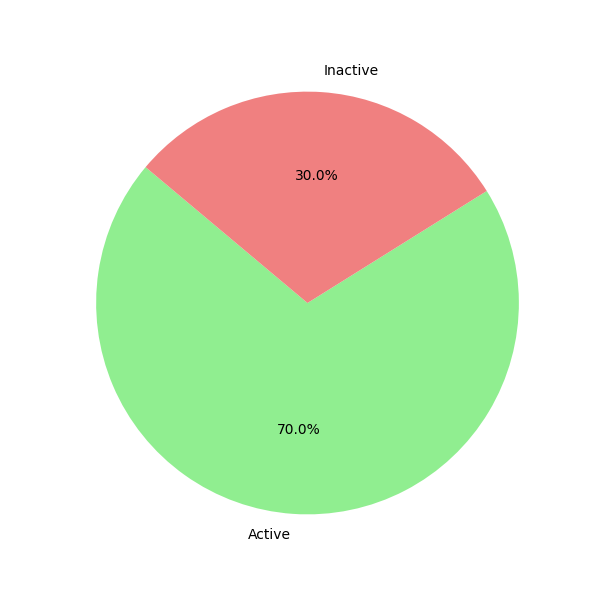
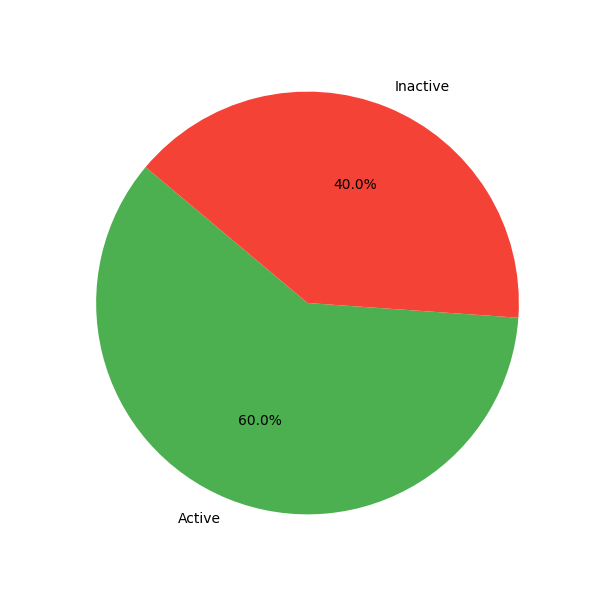
body changes

diff --git a/face_recognization/app1/templates/app1/setting_turn.html b/face_recognization/app1/templates/app1/setting_turn.html
@@ -143,7 +143,7 @@
         .user {
             text-align: left;
             margin-top: 30px;
-            margin-left: 70px;
+            margin-left: 7px;
 
         }
 
@@ -160,9 +160,9 @@
 
         #table-container {
             margin-top: 10px;
-            margin-left: 70px;
-            margin-right: 250px;
-            width: 90%;
+            margin-left: 7px;
+            margin-right: 20px;
+            width: 99%;
         }
 
         #customers {
@@ -415,26 +415,27 @@
             icon.classList.add('fa-toggle-off');
         }
 
-        // Send AJAX request to update safety confirmation
-        fetch('/update_safety_confirmation/', {
-            method: 'POST',
-            headers: {
-                'Content-Type': 'application/json',
-                'X-CSRFToken': '{{ csrf_token }}'
-            },
-            body: JSON.stringify({ pk: pk, safety_confirmation: isOn }),
-            credentials: 'same-origin', // Ensure cookies (including CSRF token) are sent
-        })
-        .then(response => {
-            if (!response.ok) {
-                throw new Error('Network response was not ok');
-            }
-        })
-        .catch(error => {
-            console.error('There was a problem with the fetch operation:', error);
-        });
-    }
+        function toggleSafetyConfirmation(icon) {
+    var pk = icon.getAttribute('data-pk');
+    var isOn = !icon.classList.contains('fa-toggle-on');
 
+    var xhr = new XMLHttpRequest();
+    xhr.open('POST', '/update_safety_confirmation/', true);
+    xhr.setRequestHeader('Content-Type', 'application/json');
+    xhr.setRequestHeader('X-CSRFToken', '{{ csrf_token }}');
+    xhr.onreadystatechange = function () {
+        if (xhr.readyState === XMLHttpRequest.DONE) {
+            if (xhr.status === 200) {
+                console.log('Safety confirmation updated successfully');
+            } else {
+               
+                console.error('Error updating safety confirmation:', xhr.statusText);
+            }
+        }
+    };
+    xhr.send(JSON.stringify({ pk: pk, safety_confirmation: isOn }));
+}
+        }
   
         const pathName = window.location.pathname;
         const activeLink = document.querySelector(`.nav a[href="${pathName}"]`);

diff --git a/face_recognization/app1/templates/app1/site.html b/face_recognization/app1/templates/app1/site.html
@@ -173,9 +173,9 @@
     
         #table-container {
             margin-top: 5px;
-            margin-left: 120px;
-            margin-right: 280px;
-            width: 90%;
+            margin-left: 5px;
+            margin-right: 50px;
+            width: 110%;
         }
 
         #customers {
@@ -201,8 +201,8 @@
         }
 
         #customers th {
-            padding-top: 12px;
-            padding-bottom: 12px;
+            padding-top: 7px;
+            padding-bottom: 7px;
             text-align: center;
             background-color: #071390;
             color: white;
@@ -245,7 +245,7 @@
         .user {
             text-align: left;
             margin-top: 10px;
-            margin-left: 120px;
+            margin-left: 5px;
         }
 
     </style>

diff --git a/face_recognization/app1/templates/app1/notification1.html b/face_recognization/app1/templates/app1/notification1.html
@@ -177,7 +177,7 @@
         .user {
             text-align: left;
             margin-top: 50px;
-            margin-left: 65px;
+            margin-left: 5px;
         }
 
         .add {
@@ -193,15 +193,15 @@
 
         #table-container {
             margin-top: 10px;
-            margin-left: 65px;
-            margin-right: 350px;
-            width: 90%;
+            margin-left: 7px;
+            margin-right: 5px;
+            width: 100%;
         }
 
         #customers {
             font-family: Arial, Helvetica, sans-serif;
             border-collapse: collapse;
-            width: 100%;
+            width: 99%;
         }
 
         #customers td,

diff --git a/face_recognization/app1/templates/app1/company.html b/face_recognization/app1/templates/app1/company.html
@@ -143,7 +143,7 @@
         .user {
             text-align: left;
             margin-top: 50px;
-            margin-left: 65px;
+            margin-left: 5px;
         }
 
         .add {
@@ -159,9 +159,9 @@
 
         #table-container {
             margin-top: 10px;
-            margin-left: 65px;
-            margin-right: 350px;
-            width: 90%;
+            margin-left: 7px;
+            margin-right: 20px;
+            width: 99%;
         }
 
         #customers {

diff --git a/face_recognization/app1/templates/app1/time_shedule.html b/face_recognization/app1/templates/app1/time_shedule.html
@@ -142,7 +142,7 @@
         .user {
             text-align: left;
             margin-top: 30px;
-            margin-left: 95px;
+            margin-left: 7px;
         }
 
         .add {
@@ -158,9 +158,9 @@
 
         #table-container {
             margin-top: 10px;
-            margin-left: 95px;
-            margin-right: 200px;
-            width: 85%;
+            margin-left: 7px;
+            margin-right: 20px;
+            width: 99%;
         }
 
         #customers {

diff --git a/face_recognization/app1/templates/app1/exit_status.html b/face_recognization/app1/templates/app1/exit_status.html
@@ -176,17 +176,17 @@
         }
 
         .main-content {
-            margin-left: 40px;
+            margin-left: 1px;
             padding: 20px;
-            width: 70%;
-            margin-right: 80px;
+            width: 95%;
+            margin-right: 20px;
 
         }
 
         table {
-            width: 130%;
+            width: 102%;
             border-collapse: collapse;
-            margin-top: 15px;
+            margin-top: 25px;
         }
 
         th,

diff --git a/face_recognization/app1/templates/app1/asset_site.html b/face_recognization/app1/templates/app1/asset_site.html
@@ -180,14 +180,14 @@
         }
 
         .main-content {
-            margin-left: 100px;
+            margin-left: 7px;
             padding: 5px;
-            width: 130%;
-            margin-right: 30px;
+            width: 99%;
+            margin-right: 20px;
         }
 
         table {
-            width: 95%;
+            width: 101%;
             border-collapse: collapse;
             margin-top: 10px;
             

diff --git a/face_recognization/app1/templates/app1/app2_login.html b/face_recognization/app1/templates/app1/app2_login.html
@@ -10,7 +10,7 @@
 <style>
     body {
         font-family: 'Times New Roman', Times, serif;
-        background-image: linear-gradient(to bottom right, #A8A1E4, #8BD6EE);
+        background-image: linear-gradient(to bottom right, #c6c3e6, #8BD6EE);
         display: flex;
         justify-content: center;
         align-items: center;

diff --git a/face_recognization/app1/templates/app1/add_user.html b/face_recognization/app1/templates/app1/add_user.html
@@ -15,7 +15,7 @@
             padding-top: 10vh;
             background: #f4f4f4;
             box-sizing: border-box;
-            height: 1200px;
+            height: 1400px;
         }
 
 

diff --git a/face_recognization/app1/views.py b/face_recognization/app1/views.py
@@ -105,7 +105,7 @@ def report_view(request):
 
         labels = ['Active', 'Inactive']
         sizes = [active_users, inactive_users]
-        colors = ['lightgreen', 'lightcoral']
+        colors = ['#4CAF50', '#F44336'] 
 
         plt.figure(figsize=(6, 6))
         plt.pie(sizes, labels=labels, colors=colors, autopct='%1.1f%%', startangle=140)
@@ -570,19 +570,23 @@ def delete_selected4(request):
         return redirect('setting_t')  
     return redirect('setting_t')
 
+import json
+
 def update_safety_confirmation(request):
     if request.method == 'POST' and request.is_ajax():
-        pk = request.POST.get('pk')
-        is_on = request.POST.get('safety_confirmation')
+        data = json.loads(request.body)
+        pk = data.get('pk')
+        is_on = data.get('safety_confirmation')
 
-        turnstile = Turnstile_S.objects.get(pk=pk)
-        turnstile.safety_confirmation = is_on
-        turnstile.save()
-
-        return JsonResponse({'success': True})
+        try:
+            turnstile = Turnstile_S.objects.get(pk=pk)
+            turnstile.safety_confirmation = is_on
+            turnstile.save()
+            return JsonResponse({'success': True})
+        except Turnstile_S.DoesNotExist:
+            return JsonResponse({'success': False, 'error': 'Turnstile not found'})
     else:
-        return JsonResponse({'success': False, 'error': 'Invalid request method or not an AJAX request'})
-
+        return JsonResponse({'success': False, 'error': 'Invalid request'})
 def sort_data(request):
    
     sort_by = request.GET.get('sort_by')
@@ -917,6 +921,4 @@ def toolboxfilterdata(request):
     return render(request, 'app1/toolbox.html', {'documents': documents})
 
 
-def translate(request):
-    return render(request,'app1/trans.html')
 

diff --git a/face_recognization/app1/urls.py b/face_recognization/app1/urls.py
@@ -96,7 +96,7 @@ urlpatterns = [
     path('mycomply_api/', UserComplyAPIView.as_view(), name='mycomply_api'),
     path('filter_preshift/',views.PreShiftfilterdata ,name='filter_preshift'),
     path('filter_toolbox/',views.toolboxfilterdata ,name='filter_toolbox'),
-    path('translate/',views.translate ,name='translate'),
+  
 
 
 
